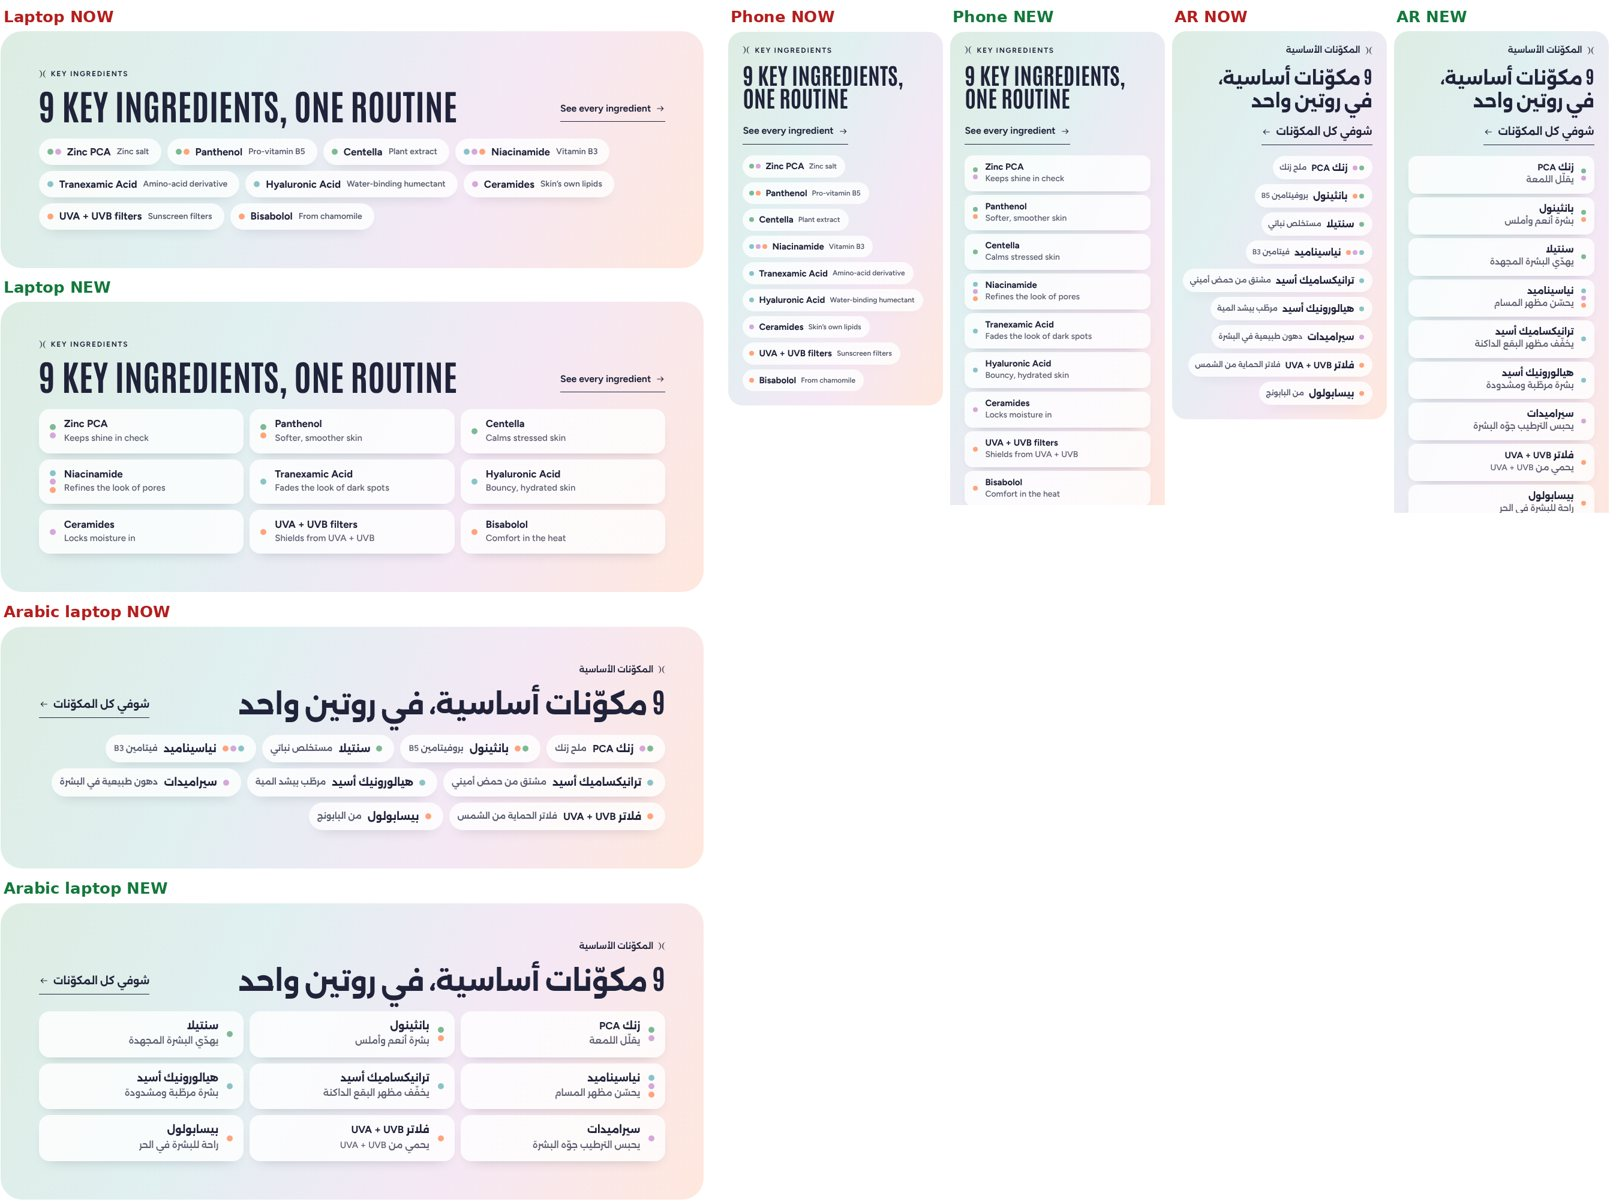
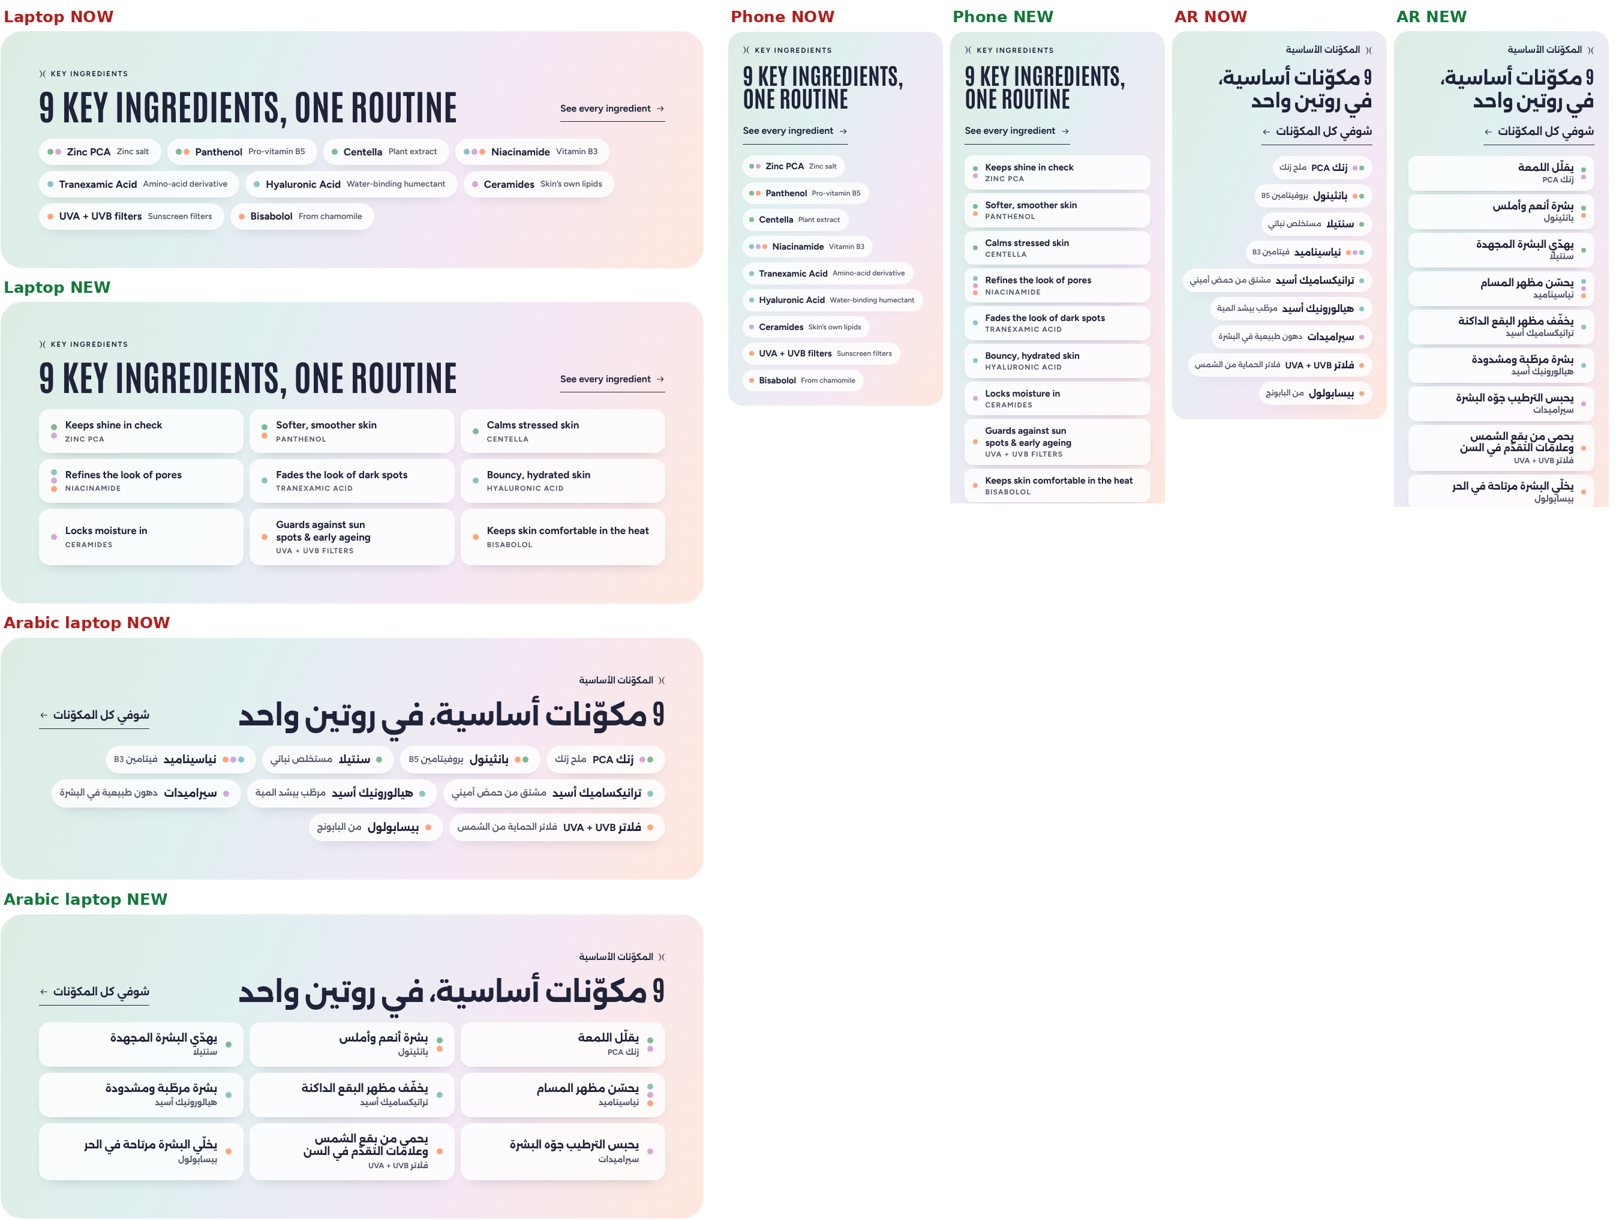
Demo round 2: set key ingredients lead with the benefit, ingredient as the label; stronger SPF and bisabolol lines (NOT deployed) (317)
Claude-Session: https://claude.ai/code/session_01LtDGGe7BHLnAUqD8k7kFm7

diff --git a/theme/assets/pdp-v2.css b/theme/assets/pdp-v2.css
@@ -467,11 +467,15 @@
 .s2-ing__in { flex: none; flex-direction: column; gap: 4px; }
 .s2-ing__words { display: grid; gap: 2px; min-inline-size: 0; }
 .s2-ing__name { white-space: normal; }
-.s2-ing__what { white-space: normal; font-size: 15px; font-weight: 550; color: color-mix(in srgb, var(--c-ink) 72%, transparent); }
+.s2-ing__words .s2-ing__what { white-space: normal; font-size: 17px; font-weight: 700; line-height: 1.25; color: var(--c-ink); text-wrap: balance; }
+.s2-ing__words .s2-ing__name { white-space: normal; font-size: 12px; font-weight: 700; letter-spacing: .1em; text-transform: uppercase; color: var(--c-muted); }
+:lang(ar) .s2-ing__words .s2-ing__name { font-size: 13px; letter-spacing: 0; text-transform: none; }
+.s2-ing__words { gap: 5px; }
+.s2-ing__link { padding: 16px 20px; align-items: center; }
 @media (max-width: 989px) { .s2-ing__list { grid-template-columns: repeat(2, minmax(0, 1fr)); } }
 @media (max-width: 749px) {
   .s2-ing__list { grid-template-columns: minmax(0, 1fr); gap: 6px; }
   .s2-ing__link { padding: 10px 14px; gap: 12px; border-radius: 14px; }
-  .s2-ing__words { gap: 0; }
-  .s2-ing__what { font-size: 14px; }
+  .s2-ing__words { gap: 3px; }
+  .s2-ing__words .s2-ing__what { font-size: 15.5px; }
 }
